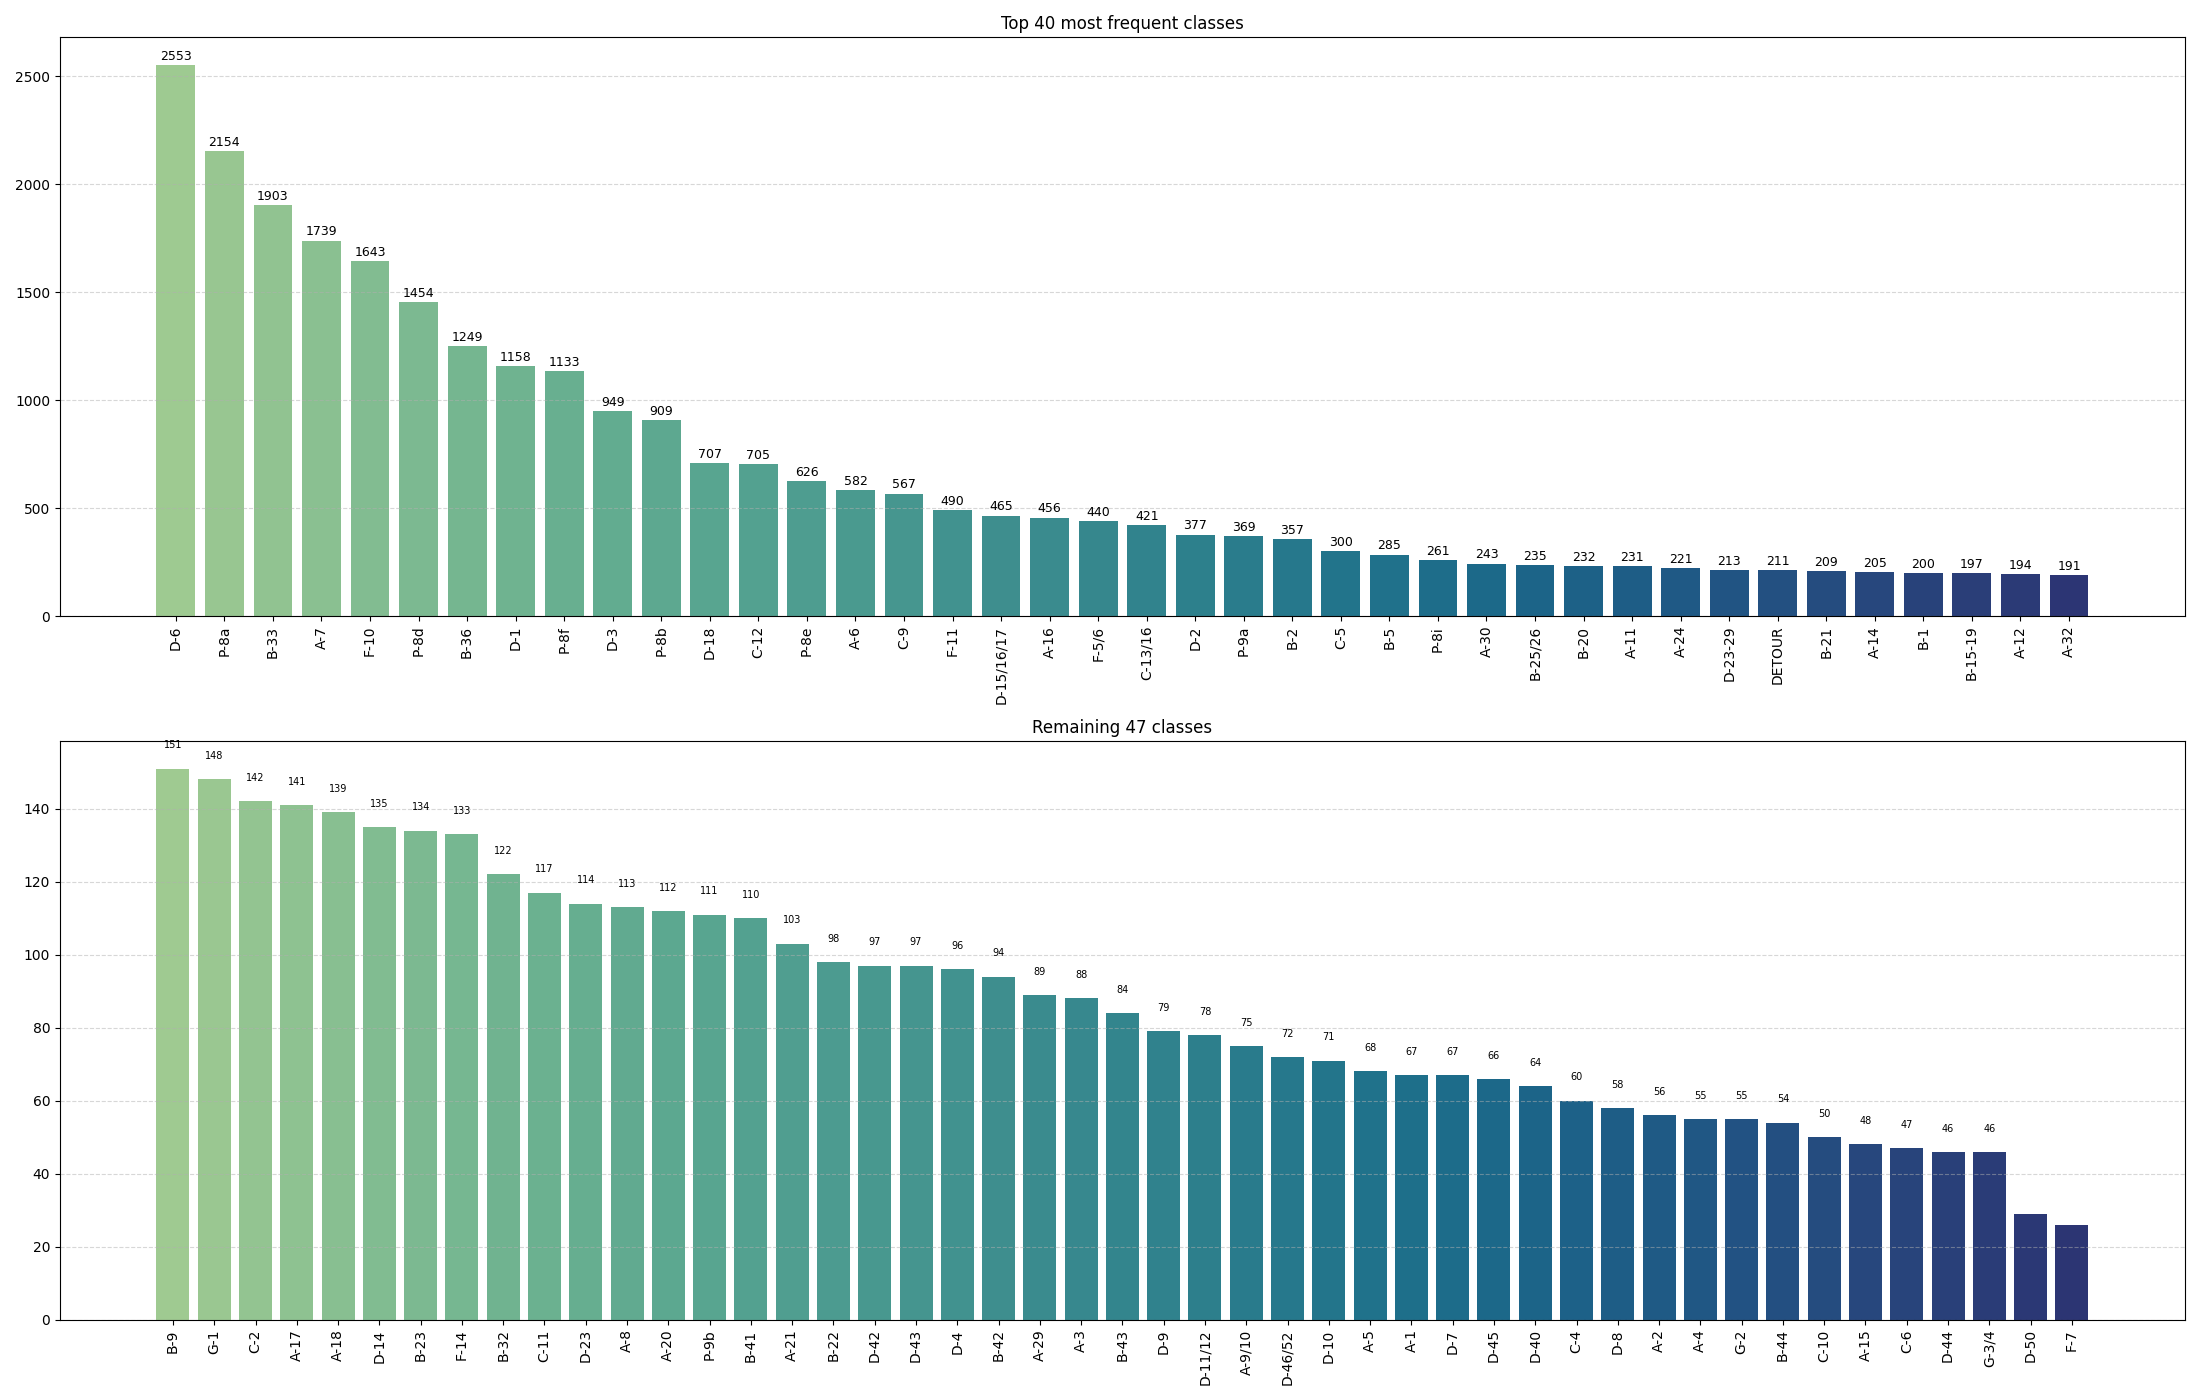
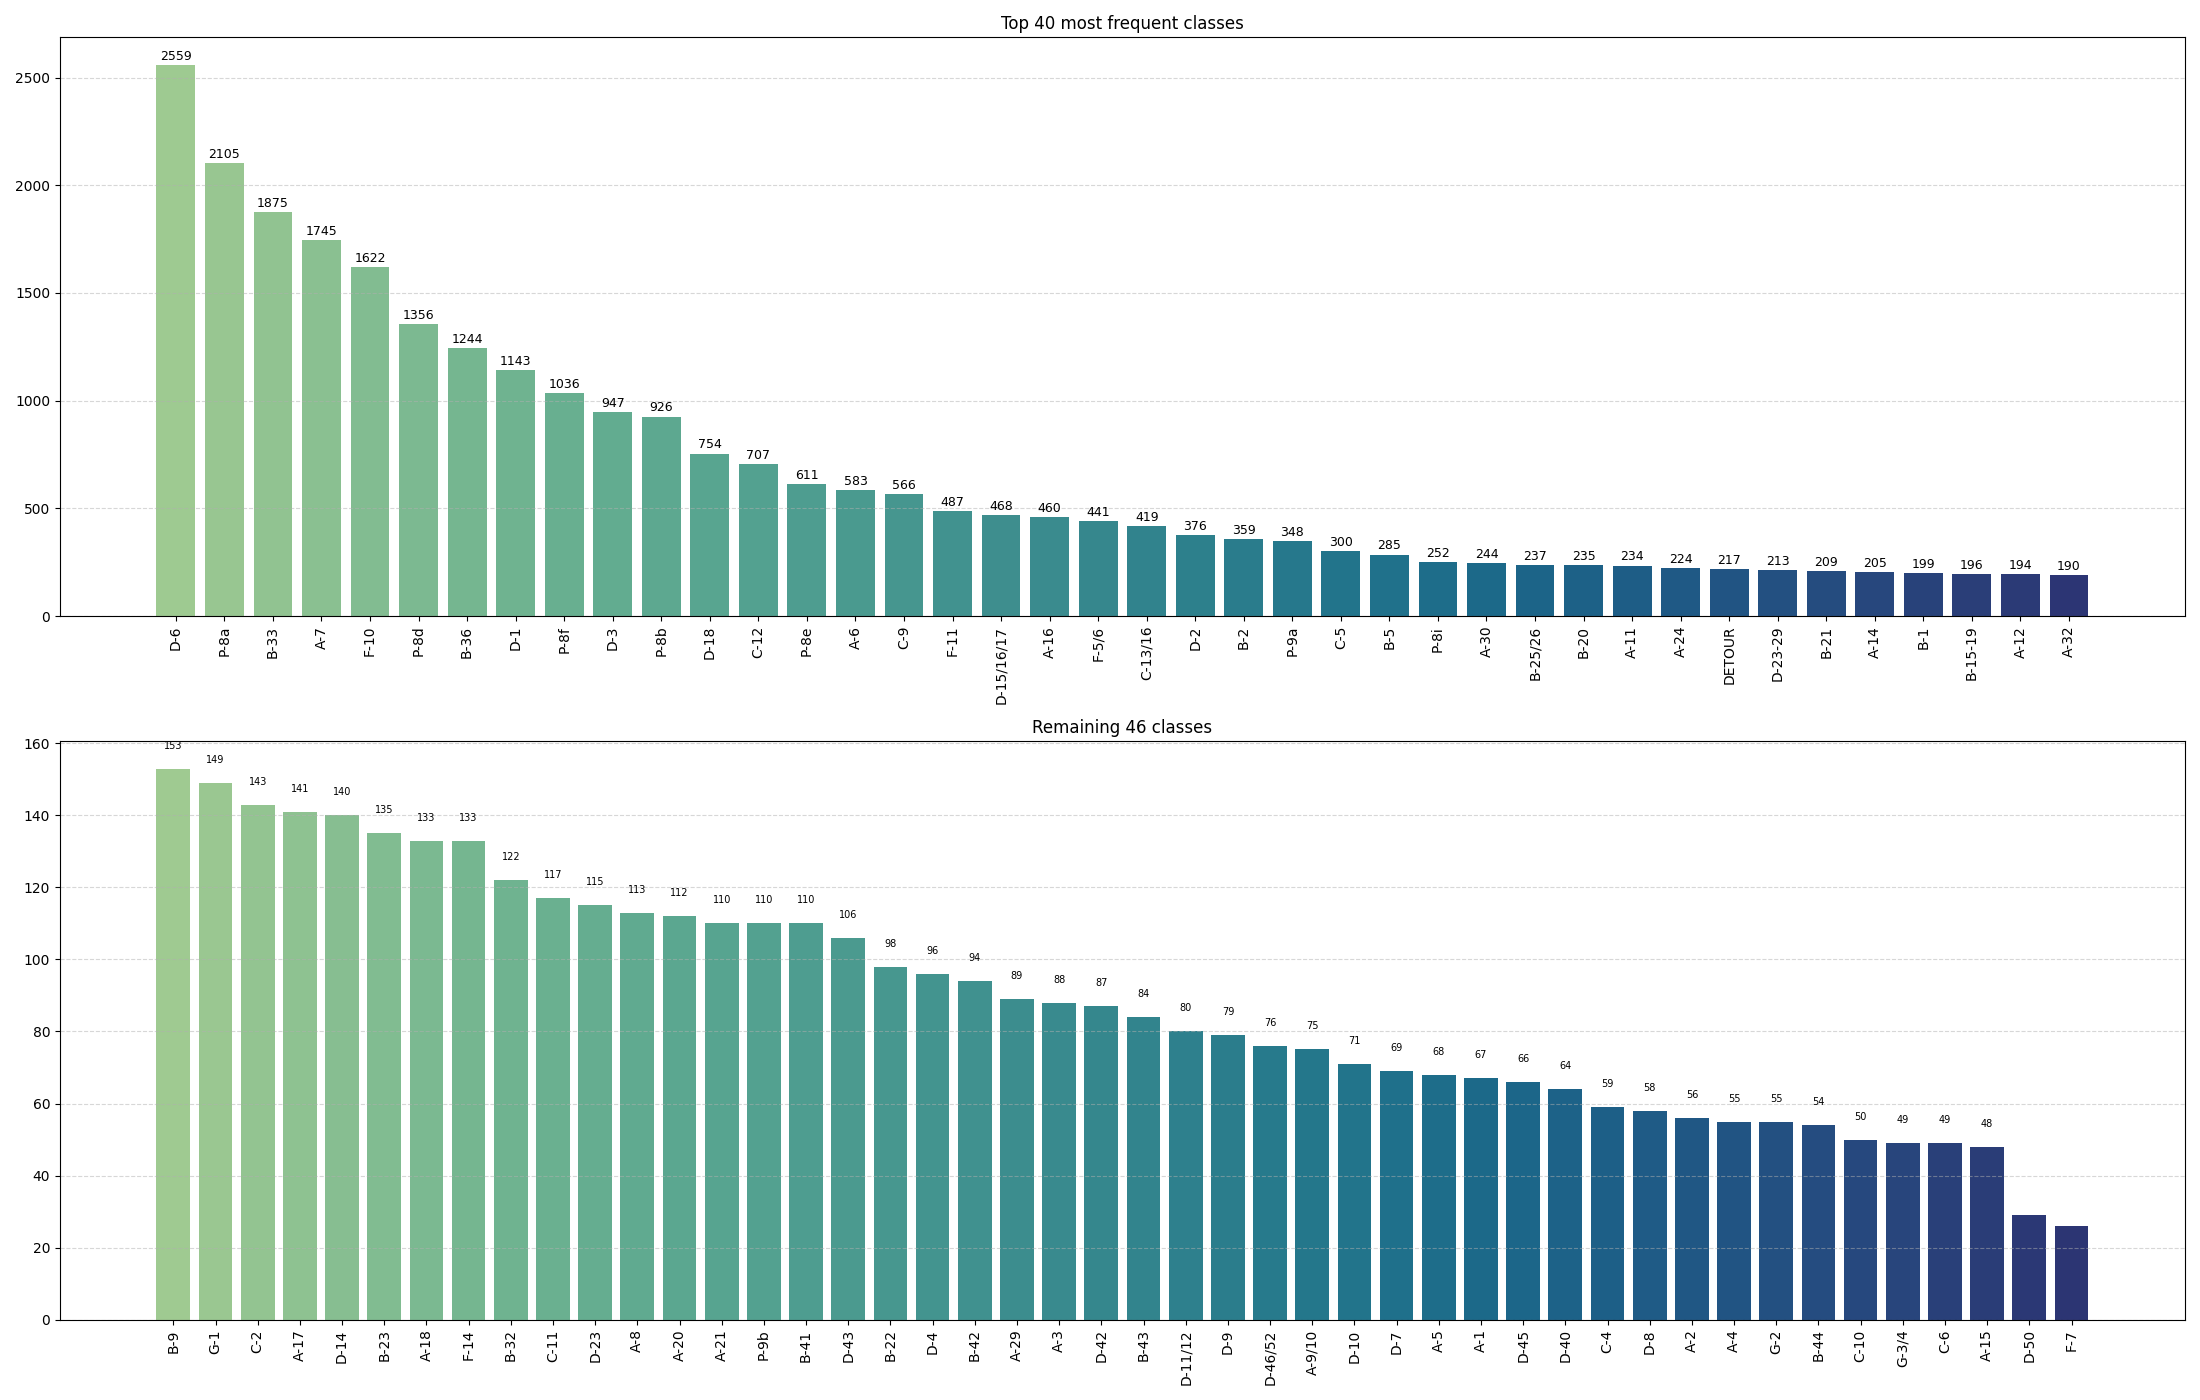
Changed augmentation and splitting script, updated README and data.yaml

diff --git a/preprocessing/split_aug_dataset.py b/preprocessing/split_aug_dataset.py
@@ -1,14 +1,27 @@
 import os
-import random
 import cv2
 import shutil
-from albumentations import Compose, ShiftScaleRotate, RandomBrightnessContrast, RandomGamma, HueSaturationValue
+from sklearn.model_selection import train_test_split
+from albumentations import (
+    Compose, ShiftScaleRotate, RandomBrightnessContrast, RandomGamma,
+    HueSaturationValue, GaussianBlur, MotionBlur, Perspective,
+    OneOf, RandomRain, RandomFog, RandomShadow
+)
 
 transform = Compose([
-    ShiftScaleRotate(shift_limit=0.05, scale_limit=0.05, rotate_limit=5, p=0.3),
-    RandomBrightnessContrast(brightness_limit=0.2, contrast_limit=0.3, p=0.7),
-    RandomGamma(gamma_limit=(70, 140), p=0.5),
-    HueSaturationValue(hue_shift_limit=5, sat_shift_limit=10, val_shift_limit=10, p=0.5),
+    ShiftScaleRotate(shift_limit=0.05, scale_limit=0.2, rotate_limit=7, border_mode=0, p=0.4),
+    Perspective(scale=(0.02, 0.05), p=0.3),
+    OneOf([
+        MotionBlur(blur_limit=3),
+        GaussianBlur(blur_limit=(3, 5)),
+    ], p=0.3),
+    RandomBrightnessContrast(brightness_limit=0.2, contrast_limit=0.4, p=0.5),
+    RandomGamma(gamma_limit=(90, 110), p=0.3),
+    HueSaturationValue(hue_shift_limit=5, sat_shift_limit=20, val_shift_limit=15, p=0.4),
+
+    RandomRain(brightness_coefficient=0.95, drop_width=1, blur_value=2, p=0.2),
+    RandomFog(fog_coef_lower=0.05, fog_coef_upper=0.1, alpha_coef=0.08, p=0.15),
+    RandomShadow(shadow_roi=(0, 0.5, 1, 1), num_shadows_lower=1, num_shadows_upper=2, shadow_dimension=5, p=0.2)
 ])
 
 dataset_dir = '../dataset'
@@ -22,32 +35,44 @@ val_labels_dir = os.path.join(dataset_dir, 'val', 'labels')
 test_images_dir = os.path.join(dataset_dir, 'test', 'images')
 test_labels_dir = os.path.join(dataset_dir, 'test', 'labels')
 
-os.makedirs(train_images_dir, exist_ok=True)
-os.makedirs(train_labels_dir, exist_ok=True)
-os.makedirs(val_images_dir, exist_ok=True)
-os.makedirs(val_labels_dir, exist_ok=True)
-os.makedirs(test_images_dir, exist_ok=True)
-os.makedirs(test_labels_dir, exist_ok=True)
+for d in [train_images_dir, train_labels_dir, val_images_dir, val_labels_dir, test_images_dir, test_labels_dir]:
+    os.makedirs(d, exist_ok=True)
 
-image_files = [f for f in os.listdir(images_dir) if f.lower().endswith(('.jpg', '.jpeg', '.png'))]
+image_files = []
+image_labels = []
 
-random.shuffle(image_files)
+train_ratio = 0.8
+val_ratio = 0.2
+test_ratio = 0.0
 
-train_size = int(len(image_files) * 0.8)
-val_size = int(len(image_files) * 0.1)
-test_size = len(image_files) - train_size - val_size
+assert abs(train_ratio + val_ratio + test_ratio - 1.0) < 1e-6, "Sum must give 1.0"
 
-train_files = image_files[:train_size]
-val_files = image_files[train_size:train_size + val_size]
-test_files = image_files[train_size + val_size:]
+for fname in os.listdir(labels_dir):
+    if fname.endswith('.txt'):
+        label_path = os.path.join(labels_dir, fname)
+        with open(label_path, 'r') as f:
+            lines = f.readlines()
+            if lines:
+                first_class = int(lines[0].split()[0])
+                img_file = fname.replace('.txt', '.jpg')
+                if os.path.exists(os.path.join(images_dir, img_file)):
+                    image_files.append(img_file)
+                    image_labels.append(first_class)
 
-def load_and_augment_image(image_path):
-    image = cv2.imread(image_path)
-    image = cv2.cvtColor(image, cv2.COLOR_BGR2RGB)
+# STRATIFIED SPLIT
+if test_ratio > 0:
+    X_temp, test_files, y_temp, y_test = train_test_split(
+        image_files, image_labels, test_size=test_ratio, stratify=image_labels, random_state=42)
 
-    augmented = transform(image=image)
+    val_ratio_rel = val_ratio / (train_ratio + val_ratio)
+    train_files, val_files, y_train, y_val = train_test_split(
+        X_temp, y_temp, test_size=val_ratio_rel, stratify=y_temp, random_state=42)
 
-    return augmented['image']
+else:
+    train_files, val_files, y_train, y_val = train_test_split(
+        image_files, image_labels, test_size=val_ratio, stratify=image_labels, random_state=42)
+    test_files = []
+
 
 def move_and_augment_files(files, source_images, source_labels, target_images, target_labels, augment=False):
     for file in files:
@@ -64,11 +89,11 @@ def move_and_augment_files(files, source_images, source_labels, target_images, t
 
         image = cv2.cvtColor(image, cv2.COLOR_RGB2BGR)
         cv2.imwrite(os.path.join(target_images, file), image)
-
         shutil.copy(label_path, os.path.join(target_labels, name + '.txt'))
+
 
 move_and_augment_files(train_files, images_dir, labels_dir, train_images_dir, train_labels_dir, augment=True)
 move_and_augment_files(val_files, images_dir, labels_dir, val_images_dir, val_labels_dir, augment=False)
 move_and_augment_files(test_files, images_dir, labels_dir, test_images_dir, test_labels_dir, augment=False)
 
-print(f'Sets have been split and augmented: {len(train_files)} train, {len(val_files)} val, {len(test_files)} test.')
+print(f'Sets have been split and augmented:\nTrain: {len(train_files)}\nVal: {len(val_files)}\nTest: {len(test_files)}')

diff --git a/training/train.py b/training/train.py
@@ -3,31 +3,31 @@ from pathlib import Path
 import mlflow
 
 if __name__ == "__main__":
-    params = {
-        "cfg": "custom_args.yaml",               # augmentations etc.
-        "data": "data.yaml",
-        "epochs": 70,
-        "batch": 10,
-        "imgsz": 640,
-        "device": "cuda",
-        "augment": False,
-        "project": "runs/detect",
-        "name": "exp_yolo_mlflow",
-        "exist_ok": False,
+    mlflow.set_tracking_uri("file:mlruns")
+    mlflow.set_experiment("yolo-traffic-signs")
 
-        "mlflow": True,                          # YOLO automatically runs MLflow
-        "experiment_name": "yolo-traffic-signs"
-    }
+    with mlflow.start_run(run_name="29.05.2025"):
+        params = {
+            "cfg": "custom_args.yaml",
+            "data": "data.yaml",
+            "epochs": 100,
+            "batch": 4,
+            "imgsz": 960,
+            "device": "cuda",
+            "augment": False,
+            "project": "runs/detect",
+            "name": "exp_yolo_mlflow",
+            "exist_ok": False
+        }
 
-    model = YOLO("yolo11m.pt")
-    results = model.train(**params)
+        model = YOLO("yolo11m.pt")
+        results = model.train(**params)
 
-    save_dir = Path(model.trainer.save_dir)
-
-    try:
-        mlflow.log_artifact(save_dir / "results.csv")
-        mlflow.log_artifact(save_dir / "confusion_matrix.png")
-        mlflow.log_artifact(save_dir / "weights" / "best.pt")
-        mlflow.log_artifact(save_dir / "args.yaml")
-    except Exception as e:
-        print(f"[WARN] Couldn't run the artefact {e}")
+        save_dir = Path(model.trainer.save_dir)
+        try:
+            mlflow.log_artifact(save_dir / "results.csv")
+            mlflow.log_artifact(save_dir / "confusion_matrix.png")
+            mlflow.log_artifact(save_dir / "weights" / "best.pt")
+            mlflow.log_artifact(save_dir / "args.yaml")
+        except Exception as e:
+            print(f"[WARN] Couldn't log artifacts: {e}")

diff --git a/preprocessing/json_to_txt_conversion.py b/preprocessing/json_to_txt_conversion.py
@@ -12,10 +12,10 @@ category_to_id = {
     "C-4": 40, "C-5": 41, "C-6": 42, "C-9": 43, "C-10": 44, "C-11": 45, "C-12": 46, "C-13/16": 47,
     "D-1": 48, "D-2": 49, "D-3": 50, "D-4": 51, "D-6": 52, "D-7": 53, "D-8": 54, "D-9": 55,
     "D-10": 56, "D-11/12": 57, "D-14": 58, "D-15/16/17": 59, "D-18": 60, "D-23": 61,
-    "D-23-29": 62, "D-40": 63, "D-42": 64, "D-43": 65, "D-44": 66, "D-45": 67, "D-46/52": 68,
-    "D-50": 69, "F-5/6": 70, "F-7": 71, "F-10": 72, "F-11": 73, "F-14": 74, "DETOUR": 75,
-    "G-1": 76, "G-2": 77, "G-3/4": 78, "P-8a": 79, "P-8b": 80, "P-8d": 81, "P-8e": 82,
-    "P-8f": 83, "P-8i": 84, "P-9a": 85, "P-9b": 86
+    "D-23-29": 62, "D-40": 63, "D-42": 64, "D-43": 65, "D-45": 66, "D-46/52": 67,
+    "D-50": 68, "F-5/6": 69, "F-7": 70, "F-10": 71, "F-11": 72, "F-14": 73, "DETOUR": 74,
+    "G-1": 75, "G-2": 76, "G-3/4": 77, "P-8a": 78, "P-8b": 79, "P-8d": 80, "P-8e": 81,
+    "P-8f": 82, "P-8i": 83, "P-9a": 84, "P-9b": 85
 }
 
 input_folder = "../dataset_prepared"

diff --git a/training/train_resume.py b/training/train_resume.py
@@ -1,0 +1,25 @@
+from ultralytics import YOLO
+from pathlib import Path
+import mlflow
+
+if __name__ == "__main__":
+    mlflow.set_tracking_uri("file:mlruns")
+    mlflow.set_experiment("yolo-traffic-signs")
+
+    with mlflow.start_run(run_name="resume-training", nested=True):
+        model = YOLO("runs/detect/exp_yolo_mlflow2/weights/last.pt")
+        results = model.train(resume=True, name="exp_yolo_mlflow2_resume")
+
+        save_dir = Path(model.trainer.save_dir)
+        try:
+            files_to_log = [
+                save_dir / "confusion_matrix.png",
+                save_dir / "weights" / "best.pt",
+                save_dir / "args.yaml",
+                save_dir / "results.csv"
+            ]
+            for f in files_to_log:
+                if f.exists():
+                    mlflow.log_artifact(f)
+        except Exception as e:
+            print(f"[WARN] Couldn't log artifacts: {e}")

diff --git a/pipelines/finalize_dataset.py b/pipelines/finalize_dataset.py
@@ -1,7 +1,7 @@
 import sys
 import subprocess
 
-print("Starting dataset preparation pipeline (Step 5/9)...")
+print("Starting dataset preparation pipeline (Step 5/10)...")
 
 seq_dir = "../downloader/download_by_sequence"
 area_dir = "../downloader/download_by_area"
@@ -23,5 +23,8 @@ subprocess.run([sys.executable, "json_to_txt_conversion.py"], cwd=pre_dir, check
 
 print("Step 9: Copying images to dataset/images folder...")
 subprocess.run([sys.executable, "copy_images.py"], cwd=pre_dir, check=True)
+
+print("Step 10: Deleting images with empty .txt files...")
+subprocess.run([sys.executable, "delete_images_without_txt.py"], cwd=pre_dir, check=True)
 
 print("✅ Dataset preparation pipeline completed. Ready for training!")

diff --git a/training/count_error_from_confusion_matrix.py b/training/count_error_from_confusion_matrix.py
@@ -4,7 +4,7 @@ import yaml
 df = pd.read_csv('confusion_matrix.csv', index_col=None)
 df = df.drop(index=87, columns='87')
 
-with open('../data.yaml', 'r') as f:
+with open('data.yaml', 'r') as f:
     data = yaml.safe_load(f)
 class_names = data['names']
 
@@ -18,7 +18,7 @@ for col in df.columns:
     if max_value > 0:
         true_class = class_names[col_index]
         mistaken_class = class_names[int(max_row_index)]
-        with open('error_report_24.04.2025.txt', 'w', encoding='utf-8') as out:
+        with open('results/error_report_24.04.2025.txt', 'w', encoding='utf-8') as out:
             for col in df.columns:
                 col_index = int(col)
                 series = df[col].copy()

diff --git a/preprocessing/merge_classes.py b/preprocessing/merge_classes.py
@@ -41,7 +41,8 @@ label_merge_map = {
     'D-6b': 'D-6',
     'D-11': 'D-11/12',
     'D-12': 'D-11/12',
-    'D-13a': 'D-13',
+    'D-13a': 'D-14',
+    'D-13': 'D-14',
     'D-15': 'D-15/16/17',
     'D-16': 'D-15/16/17',
     'D-17': 'D-15/16/17',
@@ -55,6 +56,7 @@ label_merge_map = {
     'D-28': 'D-23-29',
     'D-29': 'D-23-29',
     'D-41': 'D-40',
+    'D-44': 'D-18',
     'D-46': 'D-46/52',
     'D-47': 'D-46/52',
     'D-52': 'D-46/52',

diff --git a/README.md b/README.md
@@ -159,16 +159,22 @@ Instead, augmentations are applied explicitly using Albumentations in the split_
 This approach improves reproducibility and allows us to preview the dataset after augmentation and before training.
 Each transformation is deterministic and configurable, which makes experiments more predictable.
 
-Example augmentation setup:
+Example augmentation filters (add RandomFog/Shadow/Rain if you like)
 
 ```python
-from albumentations import Compose, RandomBrightnessContrast, HueSaturationValue, RandomGamma, CLAHE
+from albumentations import (
+    Compose, ShiftScaleRotate, RandomBrightnessContrast, RandomGamma,
+    HueSaturationValue, GaussianBlur, MotionBlur, Perspective,
+    OneOf
+)
 
 transform = Compose([
-    RandomBrightnessContrast(brightness_limit=0.2, contrast_limit=0.1, p=0.8),
-    RandomGamma(p=0.5, gamma_limit=(80, 120)),
-    HueSaturationValue(hue_shift_limit=2, sat_shift_limit=5, val_shift_limit=8, p=0.2),
-    CLAHE(clip_limit=2.0, tile_grid_size=(8, 8), p=0.1),
+    ShiftScaleRotate(shift_limit=0.05, scale_limit=0.2, rotate_limit=7, border_mode=0, p=0.4),
+    Perspective(scale=(0.02, 0.05), p=0.3),
+    OneOf([MotionBlur(blur_limit=3), GaussianBlur(blur_limit=(3, 5))], p=0.3),
+    RandomBrightnessContrast(brightness_limit=0.3, contrast_limit=0.4, p=0.5),
+    RandomGamma(gamma_limit=(90, 120), p=0.3),
+    HueSaturationValue(hue_shift_limit=5, sat_shift_limit=20, val_shift_limit=15, p=0.4),
 ])
 ```
 
@@ -233,14 +239,14 @@ From your dataset
 </details>
 
 
-## 📊 Final results
+## 📊 Final results with imgsz=640 (pixels) 
 
 | Metric       | Value |
 |--------------|-------|
-| mAP@0.5      | 0.85  |
-| mAP@0.5:0.95 | 0.71  |
-| Precision    | 0.81  |
-| Recall       | 0.80  |
+| mAP@0.5      | 0.89  |
+| mAP@0.5:0.95 | 0.76  |
+| Precision    | 0.87  |
+| Recall       | 0.82  |
 
 ---
 
